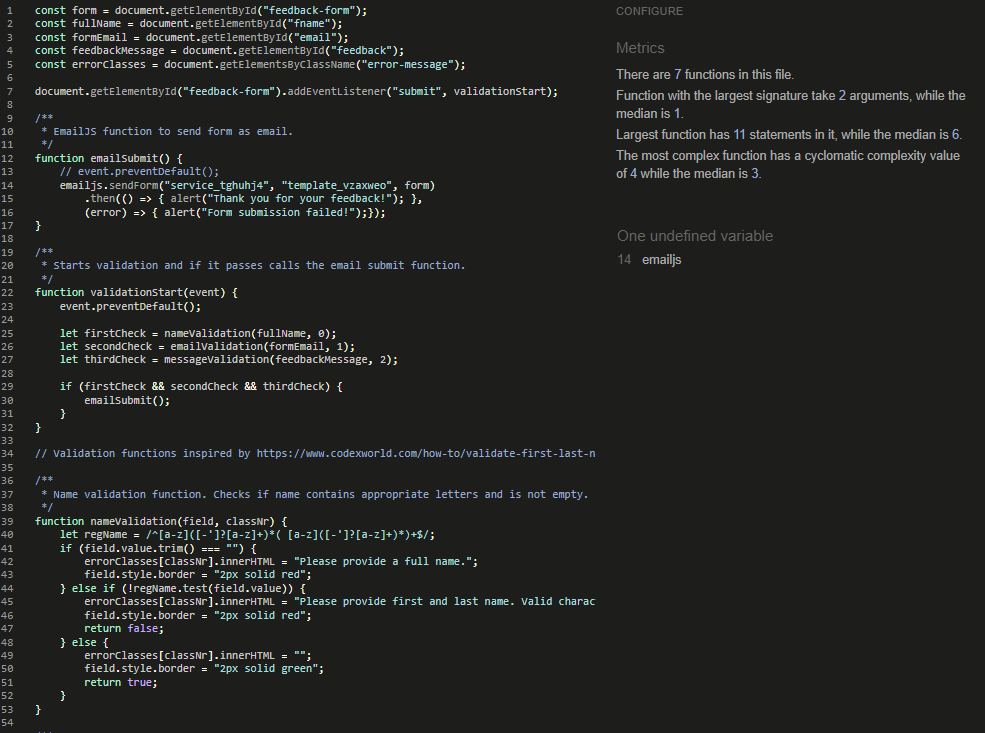
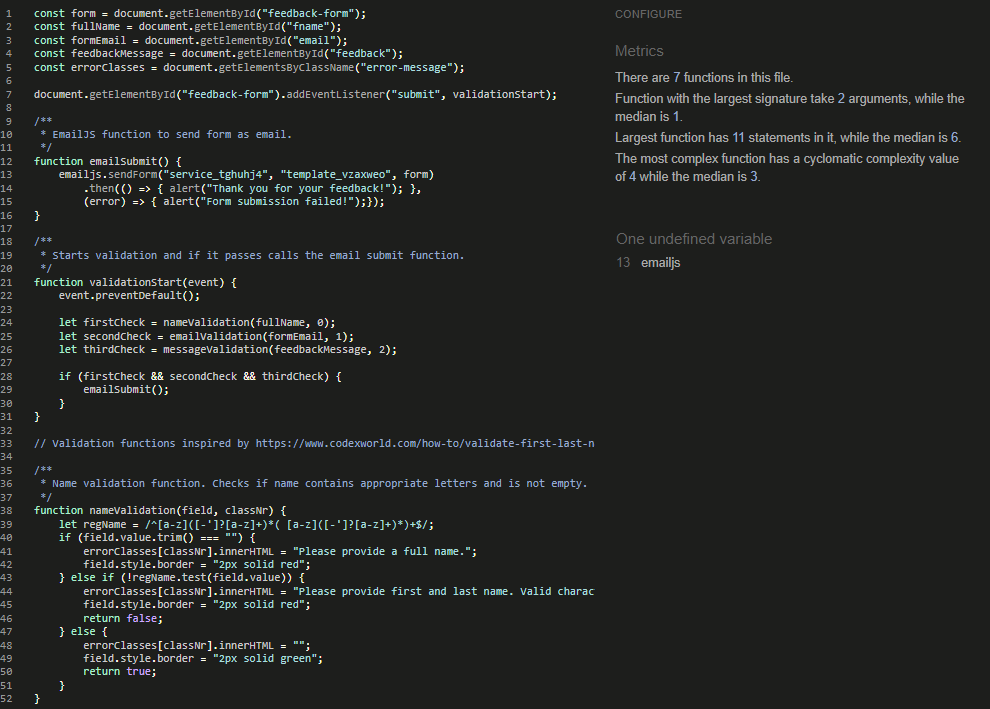
Remove commented code from email JS file

diff --git a/assets/js/email.js b/assets/js/email.js
@@ -10,7 +10,6 @@ document.getElementById("feedback-form").addEventListener("submit", validationSt
  * EmailJS function to send form as email.
  */
 function emailSubmit() {
-    // event.preventDefault();
     emailjs.sendForm("service_tghuhj4", "template_vzaxweo", form)
         .then(() => { alert("Thank you for your feedback!"); },
         (error) => { alert("Form submission failed!");});

diff --git a/README.md b/README.md
@@ -281,8 +281,8 @@ All pages passed with no errors.
 
 The website was tested on the following devices:
 * Windows desktop PC (various components) running Windows 10
-  * Chrome Version 92.0.4515.159
-  * Edge Version 92.0.902.78
+  * Chrome Version 94.0.4606.61
+  * Edge Version 94.0.992.38
 * iPhone 12 Pro
   * Safari 
 * Various devices from users who tested for feedback
